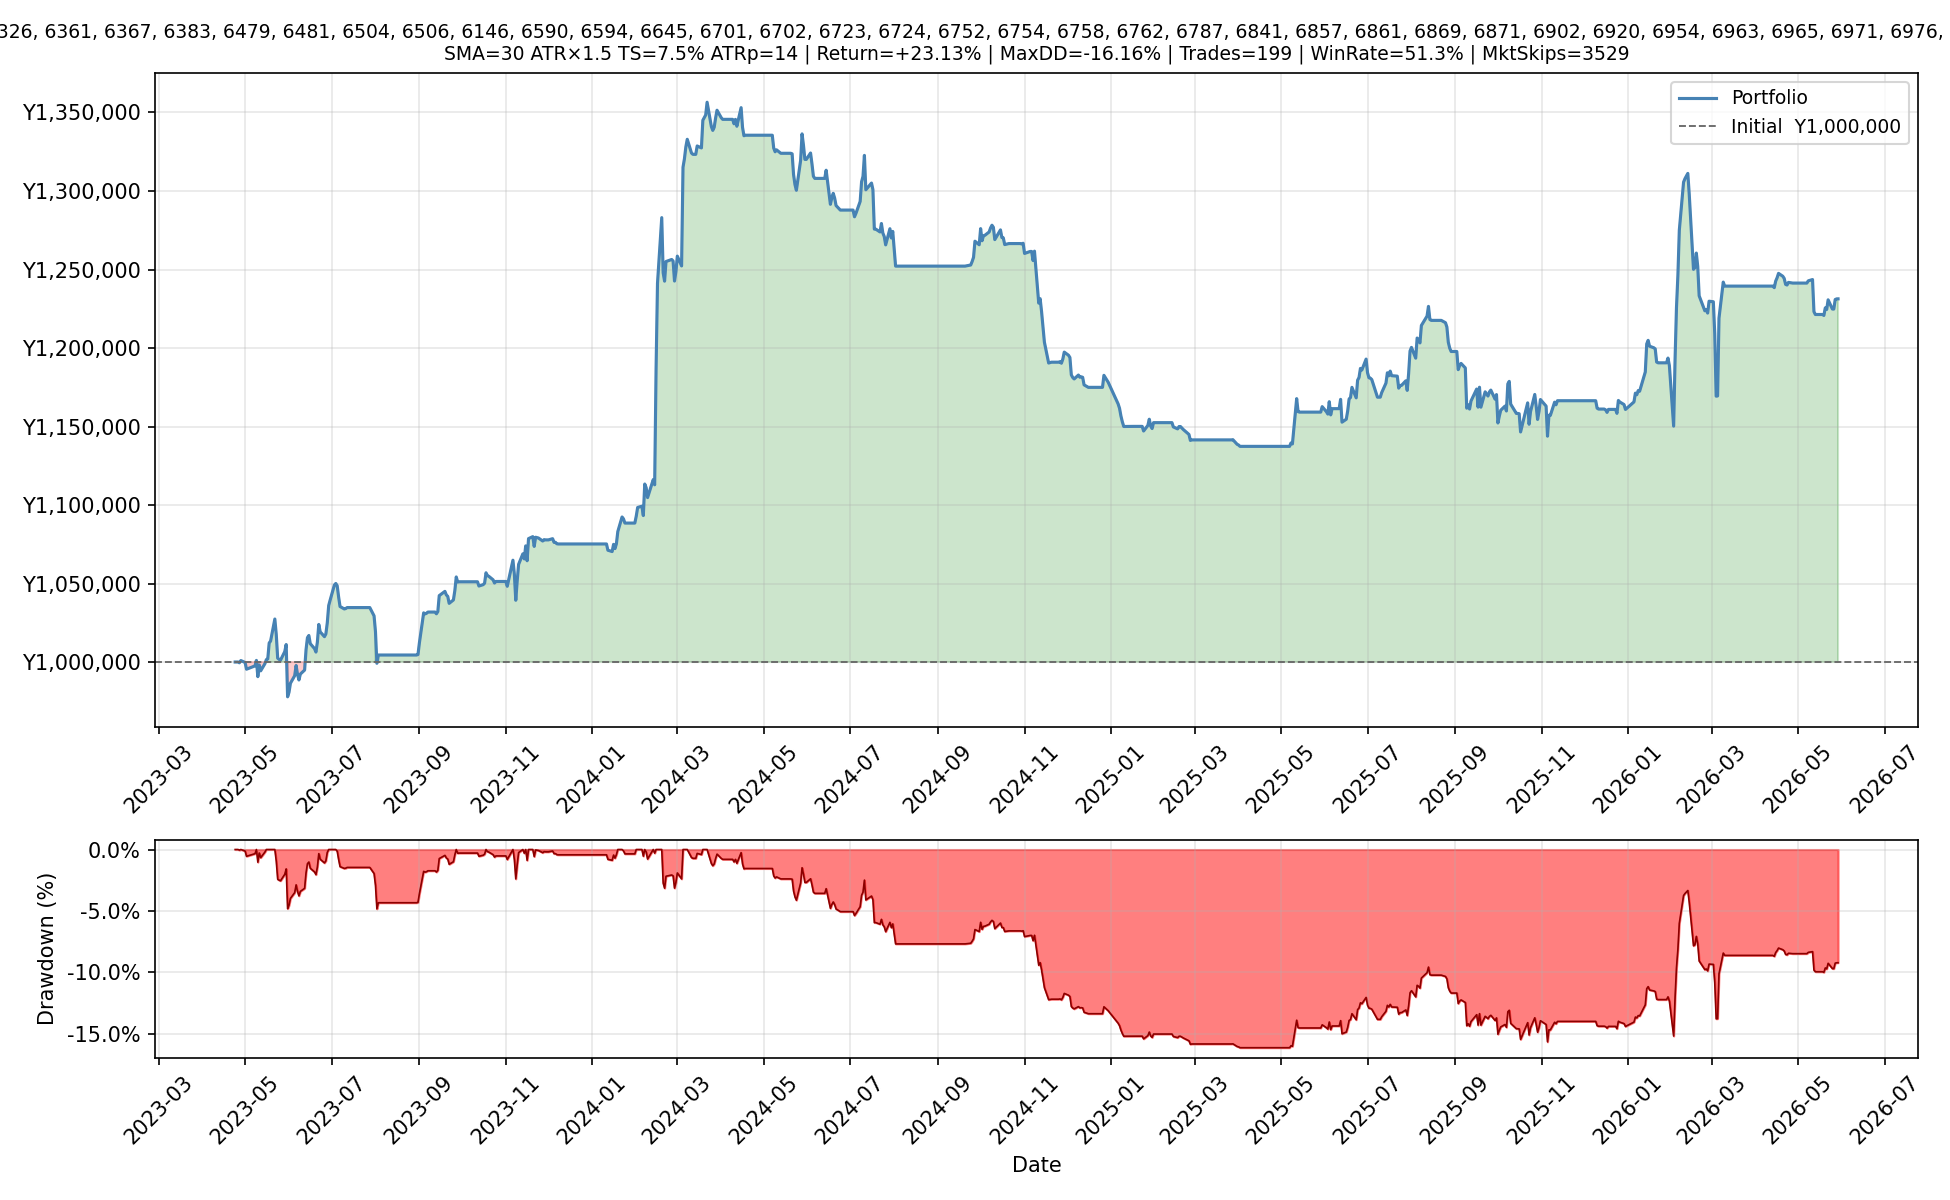
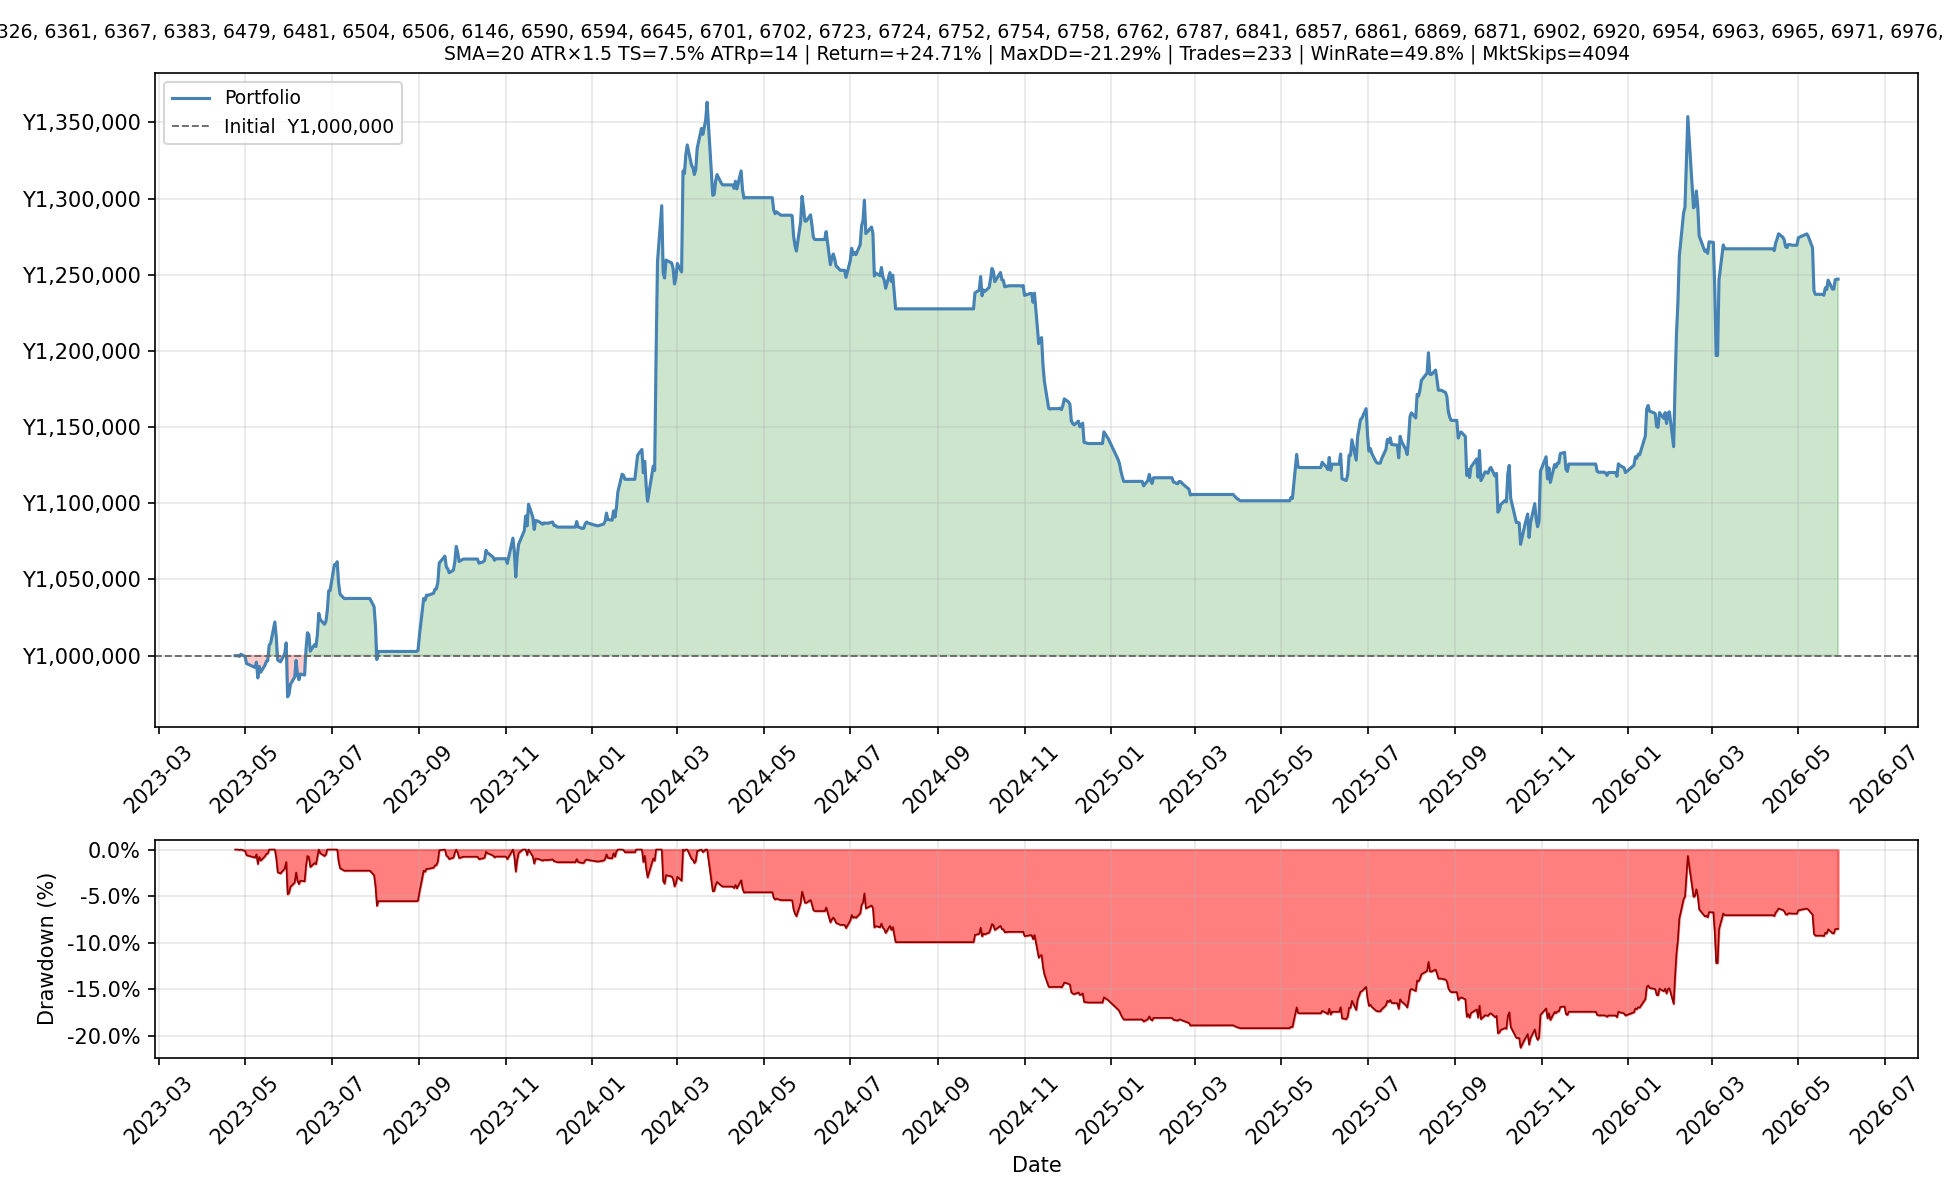
feat: 最高利益仕様確定 — RSI≥55 / 5スロット / 信用1.3倍レバレッジ
バックテスト比較（3年 2023-2026）で最高リターンを記録:
  RSI=55 + MAX_SLOTS=5 + LEVERAGE_FACTOR=1.3 → +29.75%（年率9.1%）
  ※ベースライン RSI=50 + 4スロット + 現物 → +23.13%（年率7.1%）

主な変更:
- RSI_THRESHOLD: 50 → 55（弱いエントリーを排除、partial_profit 45→52件）
- MAX_SLOTS: 4 → 5（分散強化）
- LEVERAGE_FACTOR: 1.0 → 1.3（信用取引対応、買付余力30%拡大）
- calc_position_size(): 信用余力ベースのスロット上限計算に対応
- バックテスト全トレード詳細ログ出力を追加

diff --git a/j_titan_engine.py b/j_titan_engine.py
@@ -33,7 +33,8 @@ import matplotlib.dates as mdates
 INITIAL_CAPITAL   = 1_000_000
 LOT               = 100          # 単元株
 COMMISSION        = 0.0005       # 片道0.05%
-MAX_SLOTS         = 4            # 同時保有上限（複利: 1枠=総資産÷4 を動的計算）
+MAX_SLOTS         = 5            # 同時保有上限（複利: 1枠=総資産÷5 を動的計算）
+LEVERAGE_FACTOR   = 1.3          # 信用取引レバレッジ倍率（1.0=現物, 1.3〜1.5推奨）
 RISK_PER_TRADE    = 0.015        # 1.5%リスクルール（1トレードの最大損失を総資産の1.5%に制限）
 TEST_DAYS         = 252          # テスト期間（約1年）
 MARKET_SMA        = 25           # 日経地合いフィルター SMA
@@ -42,7 +43,7 @@ MACD_FAST, MACD_SLOW, MACD_SIG = 12, 26, 9
 # ── モメンタムフィルター ─────────────────────────────────────────────────────
 RSI_PERIOD       = 14
 ADX_PERIOD       = 14
-RSI_THRESHOLD    = 50.0   # RSI >= 50 で上昇モメンタムあり
+RSI_THRESHOLD    = 55.0   # RSI >= 55 で明確な上昇モメンタムあり（弱いエントリー排除）
 ADX_THRESHOLD    = 22.0   # トレンドフィルター
 VOLUME_RATIO_MIN = 1.05   # 出来高 >= 20日平均の1.05倍（明らかな閑散シグナル除外）
 RSI_OVERBOUGHT         = 70.0   # この水準から反転下落したら early_exit
@@ -262,22 +263,27 @@ def tse_limit(p: float) -> float:
 def calc_position_size(price: float, atr: float, atr_stop_mult: float,
                        portfolio_value: float) -> int:
     """
-    1.5%リスクルールで最適購入株数（単元株単位）を計算。
+    1.5%リスクルール + 信用取引レバレッジ対応の購入株数計算。
 
-    損失上限 = portfolio_value × RISK_PER_TRADE (1.5%)
+    損失上限 = portfolio_value × RISK_PER_TRADE (1.5%)  ← 純資産ベース（レバレッジ前）
     損切り幅 = ATR × atr_stop_mult
-    購入株数 = min(損失上限÷損切り幅, 1スロット上限) を LOT 切り捨て
+    購入株数 = min(損失上限÷損切り幅, 1スロット信用余力) を LOT 切り捨て
+
+    LEVERAGE_FACTOR=1.3 の場合:
+      総運用可能額 = portfolio_value × 1.3  （現物＋信用建玉の合計上限）
+      1スロット上限 = 総運用可能額 ÷ MAX_SLOTS
 
     Returns: 購入株数（LOT単位）、0=エントリー不可
     """
     sl_dist = atr * atr_stop_mult if atr > 0 else price * 0.03
     if sl_dist <= 0 or price <= 0:
         return 0
-    risk_amount = portfolio_value * RISK_PER_TRADE        # 許容損失額
-    slot_cap    = portfolio_value / MAX_SLOTS              # 1スロット上限
+    risk_amount   = portfolio_value * RISK_PER_TRADE                       # 許容損失額（純資産基準）
+    buying_power  = portfolio_value * LEVERAGE_FACTOR                      # 信用余力込みの総運用可能額
+    slot_cap      = buying_power / MAX_SLOTS                               # 1スロット上限
     lots = min(
-        int(risk_amount / sl_dist / LOT),                 # リスクルール上限
-        int(slot_cap / (price * (1 + COMMISSION)) / LOT), # スロット上限
+        int(risk_amount / sl_dist / LOT),                                  # リスクルール上限
+        int(slot_cap / (price * (1 + COMMISSION)) / LOT),                  # スロット上限（信用余力込み）
     )
     return max(0, lots) * LOT
 
@@ -825,6 +831,27 @@ def run_backtest(df_all: dict, n225_close: pd.Series,
             w = sum(1 for p in profs if p > 0)
             print(f"    {reason:<16}: {len(profs):>3}件  勝率{w/len(profs)*100:5.1f}%  "
                   f"P&L ¥{sum(profs):>+,.0f}")
+
+    # ── 全トレード詳細ログを出力 ──────────────────────────────────────────────
+    if result["trades"]:
+        trades_sorted = sorted(result["trades"], key=lambda t: t["entry_date"])
+        print(f"\n  {'─'*74}")
+        print(f"  全トレード詳細（{len(trades_sorted)}件）")
+        print(f"  {'─'*74}")
+        print(f"  {'エントリー日':<13} {'決済日':<13} {'銘柄':<16} {'理由':<16}"
+              f" {'株数':>5} {'買値':>7} {'売値':>7} {'損益':>9}")
+        print(f"  {'─'*13} {'─'*13} {'─'*16} {'─'*16}"
+              f" {'─'*5} {'─'*7} {'─'*7} {'─'*9}")
+        cum = 0
+        for t in trades_sorted:
+            cum += t["profit"]
+            mark = "✓" if t["profit"] > 0 else "✗"
+            print(f"  {str(t['entry_date'])[:10]:<13} {str(t['exit_date'])[:10]:<13}"
+                  f" {NAMES.get(t['symbol'], t['symbol']):<16}"
+                  f" {t['reason']:<16} {t['shares']:>5}"
+                  f" ¥{t['entry_price']:>6,.0f} ¥{t['exit_price']:>6,.0f}"
+                  f" ¥{t['profit']:>+8,.0f} {mark}  累計¥{cum:>+,.0f}")
+        print(f"  {'─'*74}")
 
     print(f"{'═'*74}\n")
 